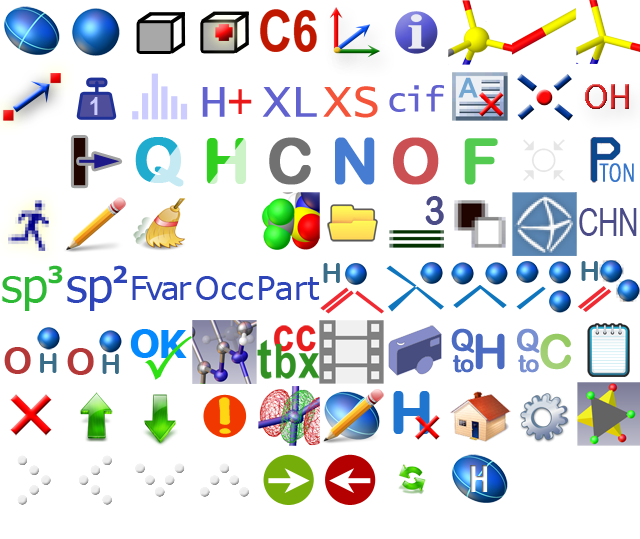
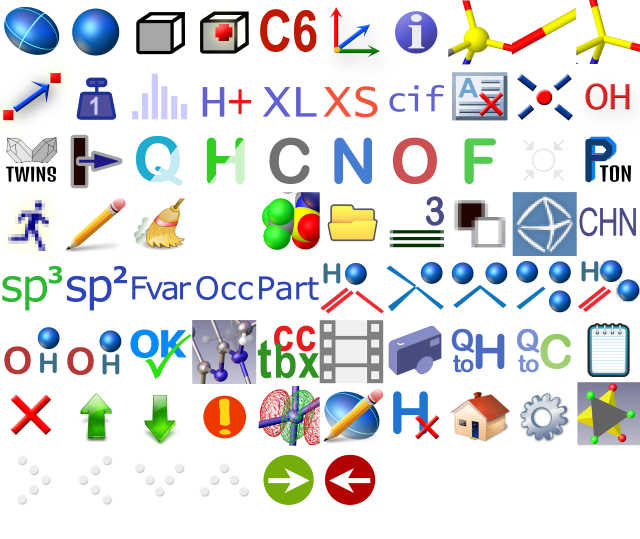
put olex2Twinning on top toolbar

diff --git a/util/pyUtil/CctbxLib/olex_twinning.py b/util/pyUtil/CctbxLib/olex_twinning.py
@@ -71,8 +71,15 @@ class OlexCctbxTwinLaws(OlexCctbxAdapter):
       OV.write_to_olex('twinning-result.htm', html, False)
       OV.UpdateHtml()
       return
+    print "Searching for Twin laws..."
+    olx.Cursor("Searching for Twin laws...")
+    self.run()
+    olx.Cursor()
+  
+  def run(self): 
     from PilTools import MatrixMaker
     global twin_laws_d
+    use_image = ""
     a = MatrixMaker()
     self.twin_laws_d = {}
     law_txt = ""
@@ -162,6 +169,8 @@ class OlexCctbxTwinLaws(OlexCctbxAdapter):
       html += '''
 <a href='%s' target='Apply this twin law'><zimg name='%s' border="0" src="%s"></a>&nbsp;
     ''' %(href, control, img_src)
+    if not use_image:
+      return
     html += "</td></tr>"
     OV.write_to_olex('twinning-result.htm', html, False)
     OV.CopyVFSFile(use_image, "%s.png" %image_name,2)
